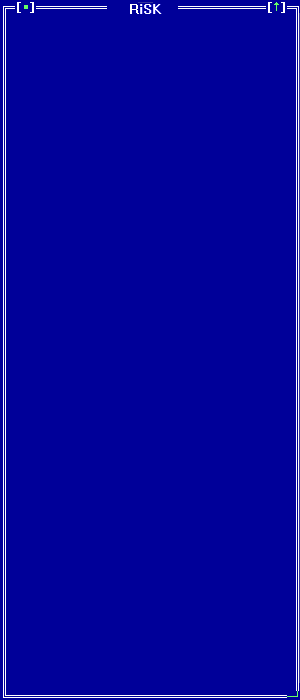
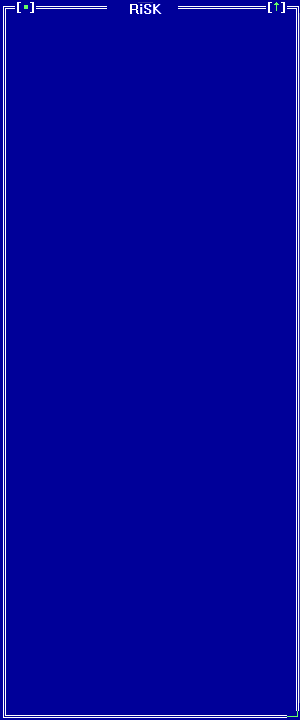
Updated readme and resized risk2.png.

diff --git a/sim/sim.css b/sim/sim.css
@@ -86,7 +86,7 @@ body input, body button {
 }
 
 .notheme #nyheter {
-	position:relative; left:20px; top:40px; width: 260px; height: 305px; border-style:solid;  border-width: 1px; border-color:#ffffff;
+	position:relative; left:20px; top:30px; width: 260px; height: 305px; border-style:solid;  border-width: 1px; border-color:#ffffff;
 }
 .innercnt {
 	max-height: 360px;
@@ -103,13 +103,13 @@ body input, body button {
 .notheme #fastighet {
 	position:relative; 
 	left:20px; 
-	top:30px; 
+	top:20px; 
 	width: 260px; 
 	height: 200px; 
 	border:1px solid #ffffff;
 }
 .notheme #riskText {
-	position:relative; left:20px; top:50px; width: 260px; height: 116px; border-style:solid;  border-width: 1px; border-color:#ffffff; font-size:11px; padding: 2px 2px 2px 2px; text-align: justify;
+	position:relative; left:20px; top:40px; width: 260px; height: 130px; border-style:solid;  border-width: 1px; border-color:#ffffff; font-size:11px; padding: 2px 2px 2px 2px; text-align: justify;
 }
 
 .notheme #mainframe {
@@ -300,6 +300,7 @@ div.news_div
 	font-family: American Typewriter;
 */
 	color:#ffffff;
+	text-align: justify;
 }
 
 span.cursor{

diff --git a/sim/index.html b/sim/index.html
@@ -140,6 +140,7 @@
 			README - Stay centered near Örnsköldsvik and press somewhere on the map to release a hazardous substance into the environment.
 			The simulation will show which wells are affected in the top right corner. Simulated warnings will show up just above
 			this box. The map will show wells, lakes and streams being contaminated when the substance reaches them. Press SPACE to reset the simulation.
+			Note: Internet explorer 10 or above, Firefox or Chrome required!
 		</div>
 	</div>
 	<script type="text/javascript">
